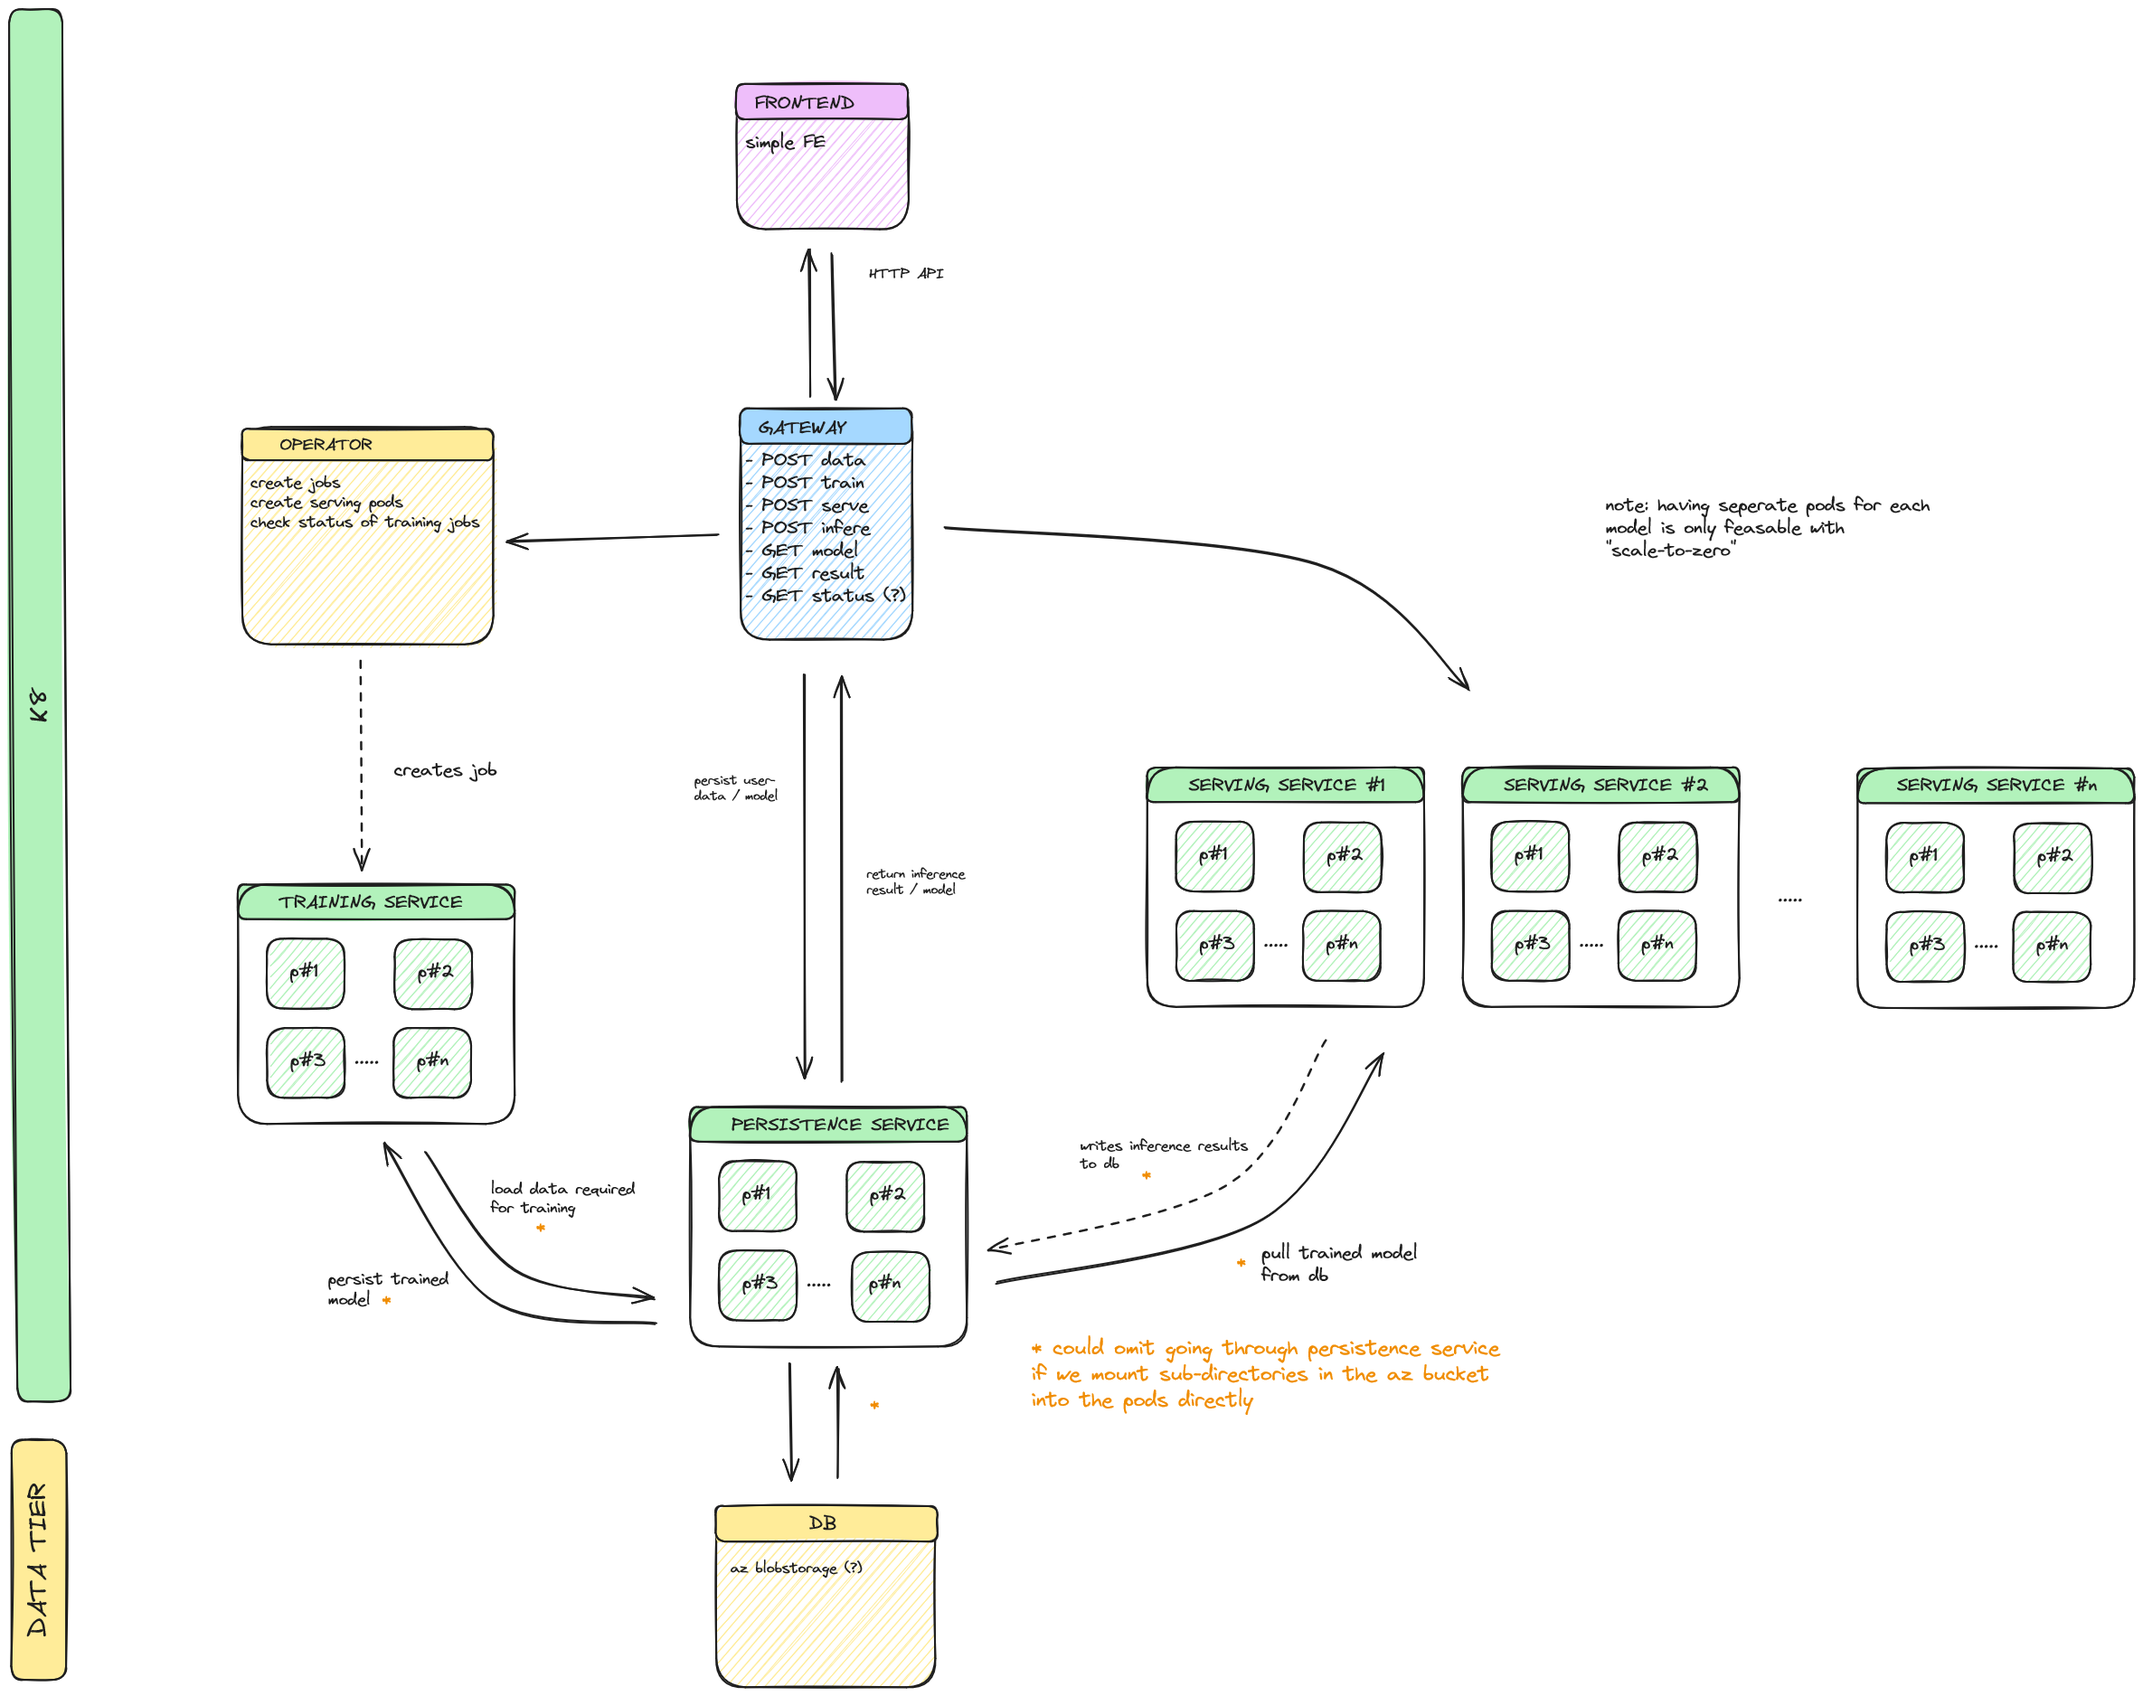
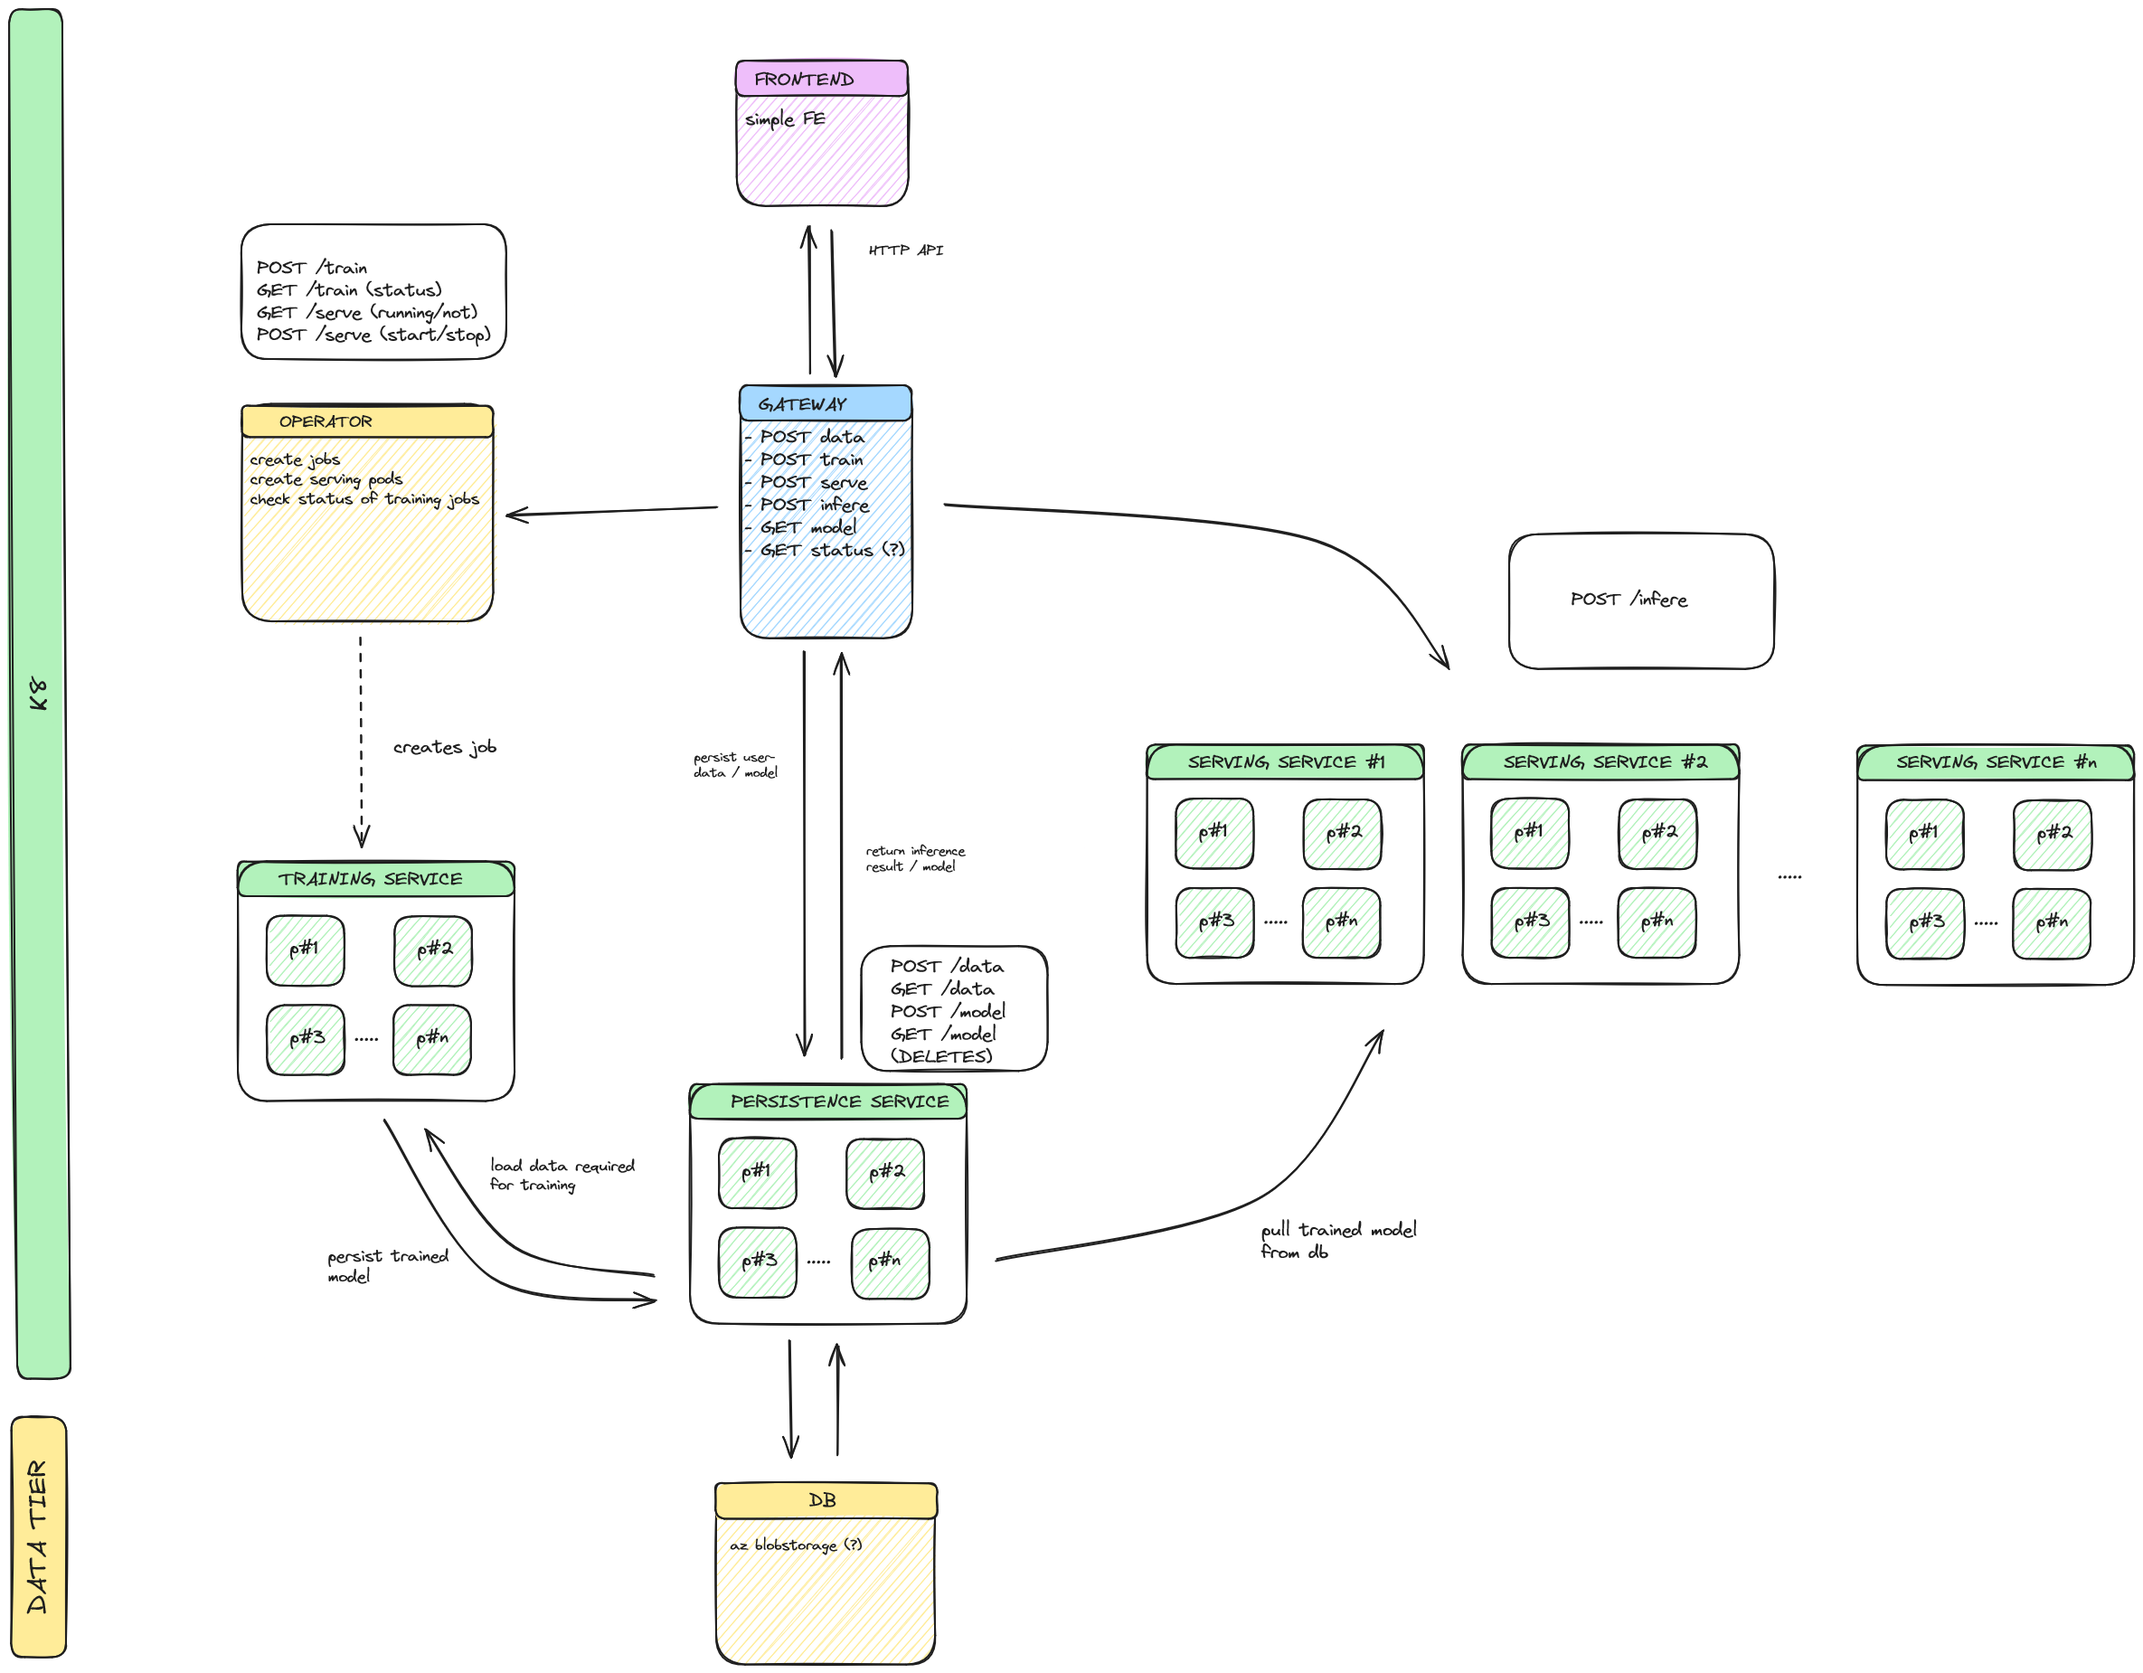
add ADRs, upadte arch sketch

diff --git a/docs/adrs/repository-structure.md b/docs/adrs/repository-structure.md
@@ -1,0 +1,36 @@
+# Repository Structure ADR
+
+Date: ``18-04-2024``
+
+## Status
+
+__ACCEPTED__
+
+## Context
+
+We need to decide on a structre within our repository as well as a naming convention for branches and issues.
+
+## Decision
+### Repository structure
+- each service has its ``own directory`` in the top level
+- tests of each service are within the respective ``test`` directories
+    - all files related to testing should reside in the test subdirectory
+
+- each service has a Dockerfile in its directory
+
+- infrastructure automation code in a toplevel ``tf`` directoy
+
+- helmchart should reside in ``ml-as-a-service`` toplevel directory
+
+### Branches 
+We decided on the following structure:
+- `main` for the main branch
+- `dev` for the development branch
+- `feature/` for all branches that implement a new functionality or feature
+- `hotfix/` for all branches that are concerned with a bug-fix
+
+### Issues
+Issue for each feature. Optionally tickboxes for finer grained todos with the features.
+
+
+## Consequences

diff --git a/docs/adrs/code-formatting.md b/docs/adrs/code-formatting.md
@@ -1,0 +1,28 @@
+# Code Formatting ADR
+
+Date: ``18-04-2024``
+
+## Status
+
+__ACCEPTED__
+
+## Context
+
+Proper code formatting is vital to the long-term viability and maintainability of a code
+base. In place, a codebase with such formatting is:
+
+- easier to review
+- easier to diff against previous commits
+- more likely to be free of linting errors
+
+## Proposal
+
+- We use [Black](https://github.com/python/black) as code formatter for the back-end codebase.
+- We use Black's default options.
+- We CI to ensure PRs are appropriately formatted before being accepted.
+- We use [Prettier](https://marketplace.visualstudio.com/items?itemName=esbenp.prettier-vscode) as code formatter for the front-end codebase.
+
+## Consequences
+Code in the repository is pretty and uniform.
+
+

diff --git a/docs/adrs/storage-solution.md b/docs/adrs/storage-solution.md
@@ -1,0 +1,31 @@
+# Storage Solution ADR
+
+Date: ``18-04-2024``
+
+## Status
+
+__ACCEPTED__
+
+## Context
+
+We need to decide on a storage solution for our project.
+
+## Decision
+
+KISS: use a single azure blob storage (pivot to nfs if blob storage doesnt work out for some reason)
+
+Within the bucket: directory for each user (hash of userid) with subdirectories for data and model:
+```
+bucket
+|
++-- <hash(user-id)>
+   |
+   +-- data
+   |
+   +-- model
+```
+Accessed only from persistence-service via azure sdk.
+
+
+## Consequences
+Loose coupleing. Storage solution can easily be swapped out since storage details are abstracted away by the persistence service.

diff --git a/docs/adrs/cicd.md b/docs/adrs/cicd.md
@@ -1,0 +1,26 @@
+# CICD ADR
+
+Date: ``18-04-2024``
+
+## Status
+
+__ACCEPTED__
+
+## Context
+
+We need to decide on a CI/CD solution for our project, so we can automate certain tasks, e.g., building, testing, releasing, etc..
+
+## Decision
+
+- Use github actions for CI
+
+- Use github actions for CD (if possible) - az devops otherwise
+
+- Each "finished" service needs at least a build pipeline on github
+
+- Failing tests should block build pipelines (this can be circumvented manually in special cases if neccessary)
+
+
+## Consequences
+
+By using github for ci and cd everything is in one place which helps keeping an overview.

diff --git a/docs/adrs/authentication.md b/docs/adrs/authentication.md
@@ -1,0 +1,18 @@
+# User Authentication ADR
+
+Date: ``18-04-2024``
+
+## Status
+
+__ACCEPTED__
+
+## Context
+
+We need to decide on a (simple) authorization solution for our project, so we can authorize users.
+
+## Decision
+- Make use of ingress (nginx) capabilities for [OAUTH](https://kubernetes.github.io/ingress-nginx/examples/auth/oauth-external-auth/) (github) 
+- Auth headers need to be forwarded for all endpoints since it's used for user identification by all services.
+
+## Consequences
+Only github registered users can access our application. Keeping it simple (since this project as meant as a proof of concept)

diff --git a/docs/adrs/testing.md b/docs/adrs/testing.md
@@ -1,0 +1,24 @@
+# Testing ADR
+
+Date: ``18-04-2024``
+
+## Status
+
+__ACCEPTED__
+
+## Context
+
+We need to decide on a testing solution for our project.
+
+## Decision
+
+- Blocking tests in the respective build pipelines
+
+- Each service should have tests ensuring its (core) functionallity (unit testing)
+
+- Tests should be done in a containerized way with dockercompse (as shown in the lectures) can be omitted if not feasable (i.e k8 operator)
+
+
+## Consequences
+
+Images with failing tests cannot be automatically pushed to the registry.

diff --git a/docs/adrs/input-validation.md b/docs/adrs/input-validation.md
@@ -1,0 +1,20 @@
+# User input validation ADR
+Date: ``18-04-2024``
+
+## Status
+
+__ACCEPTED__
+
+## Context
+We need to decide on a (simple) input validation approach for our user inputs.
+
+## Decision
+- Validate input size
+- Validate input structure
+- Validate input file format
+
+Validation needs to be done in:
+- Persistence service
+
+## Consquence
+Only valid inputs can reach our storage.
